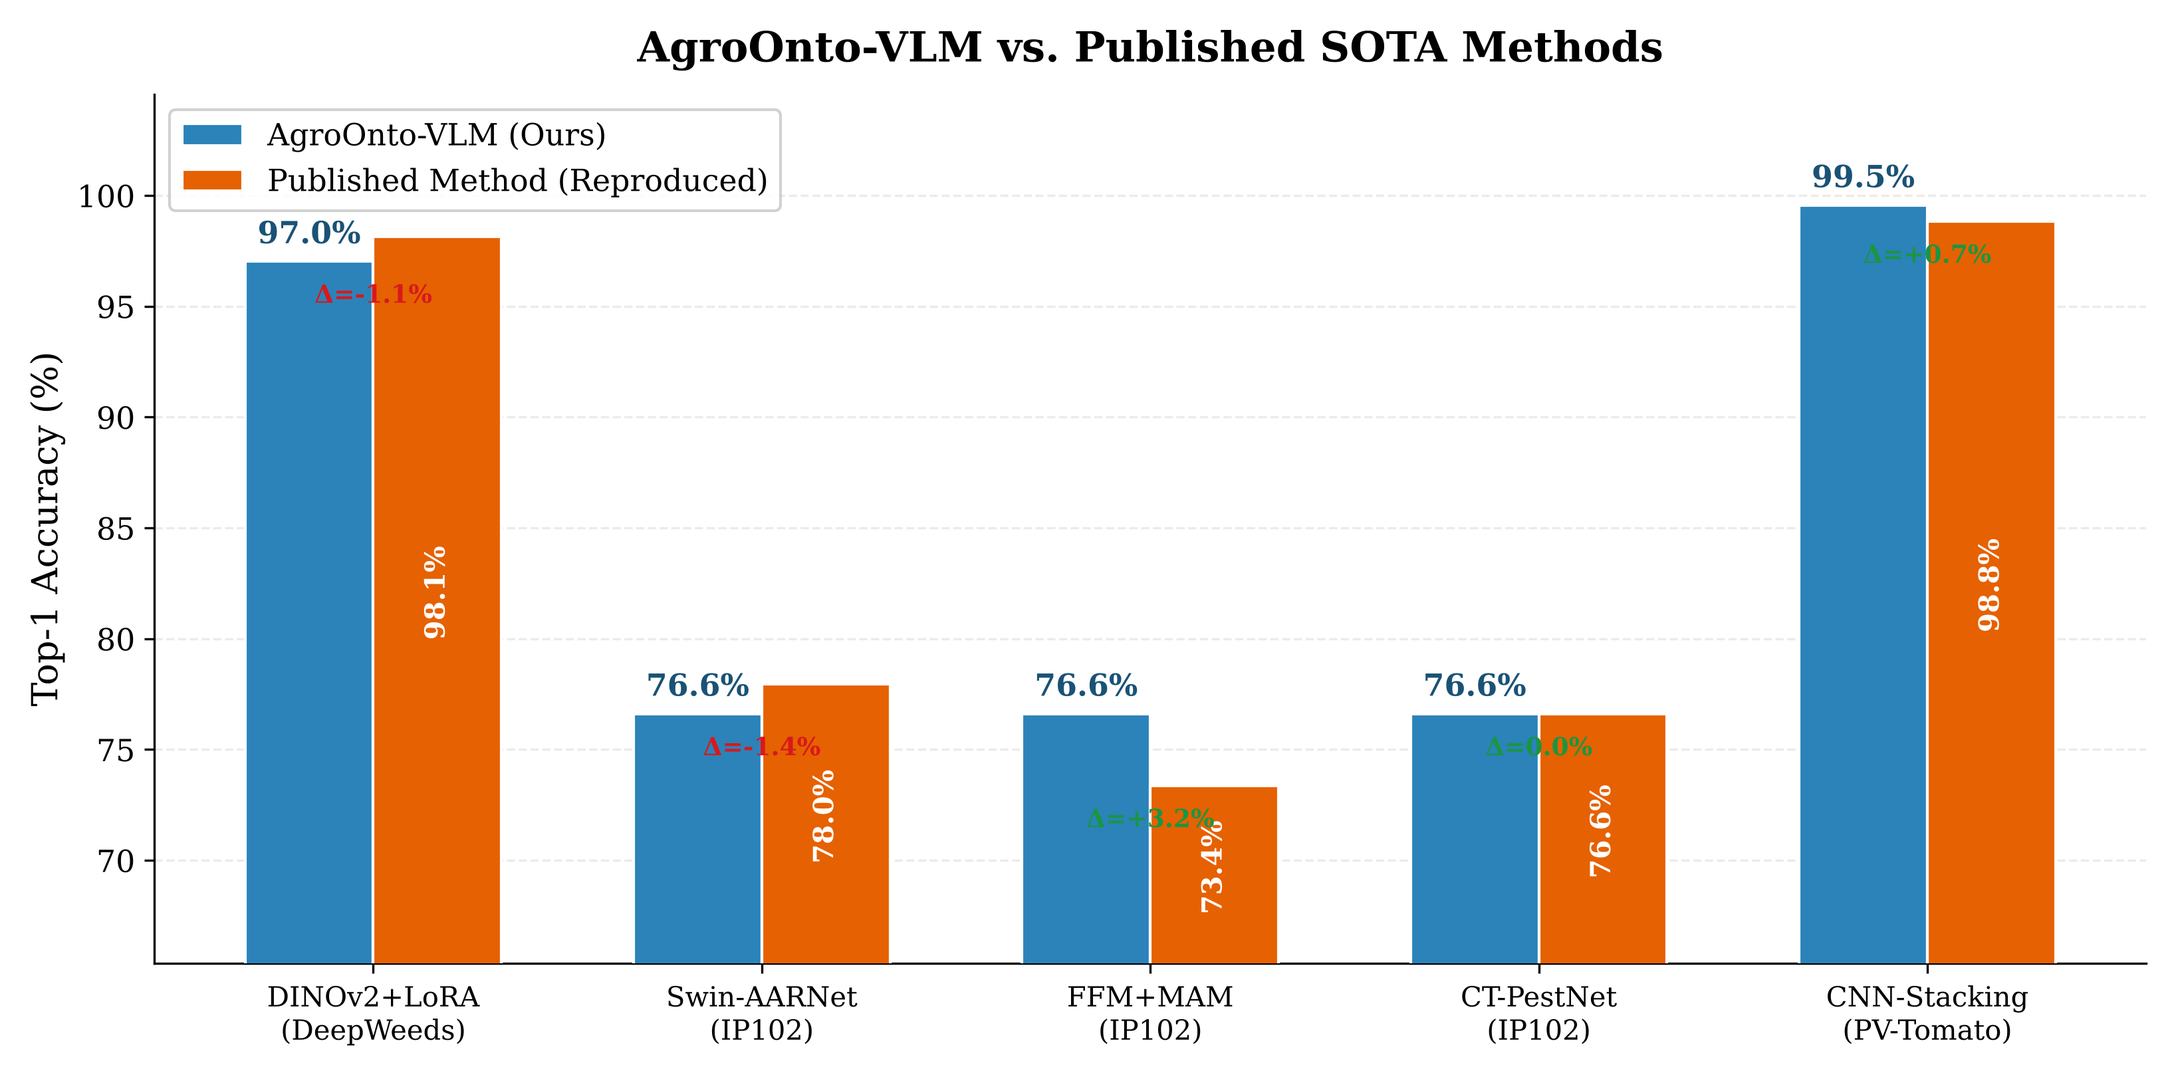
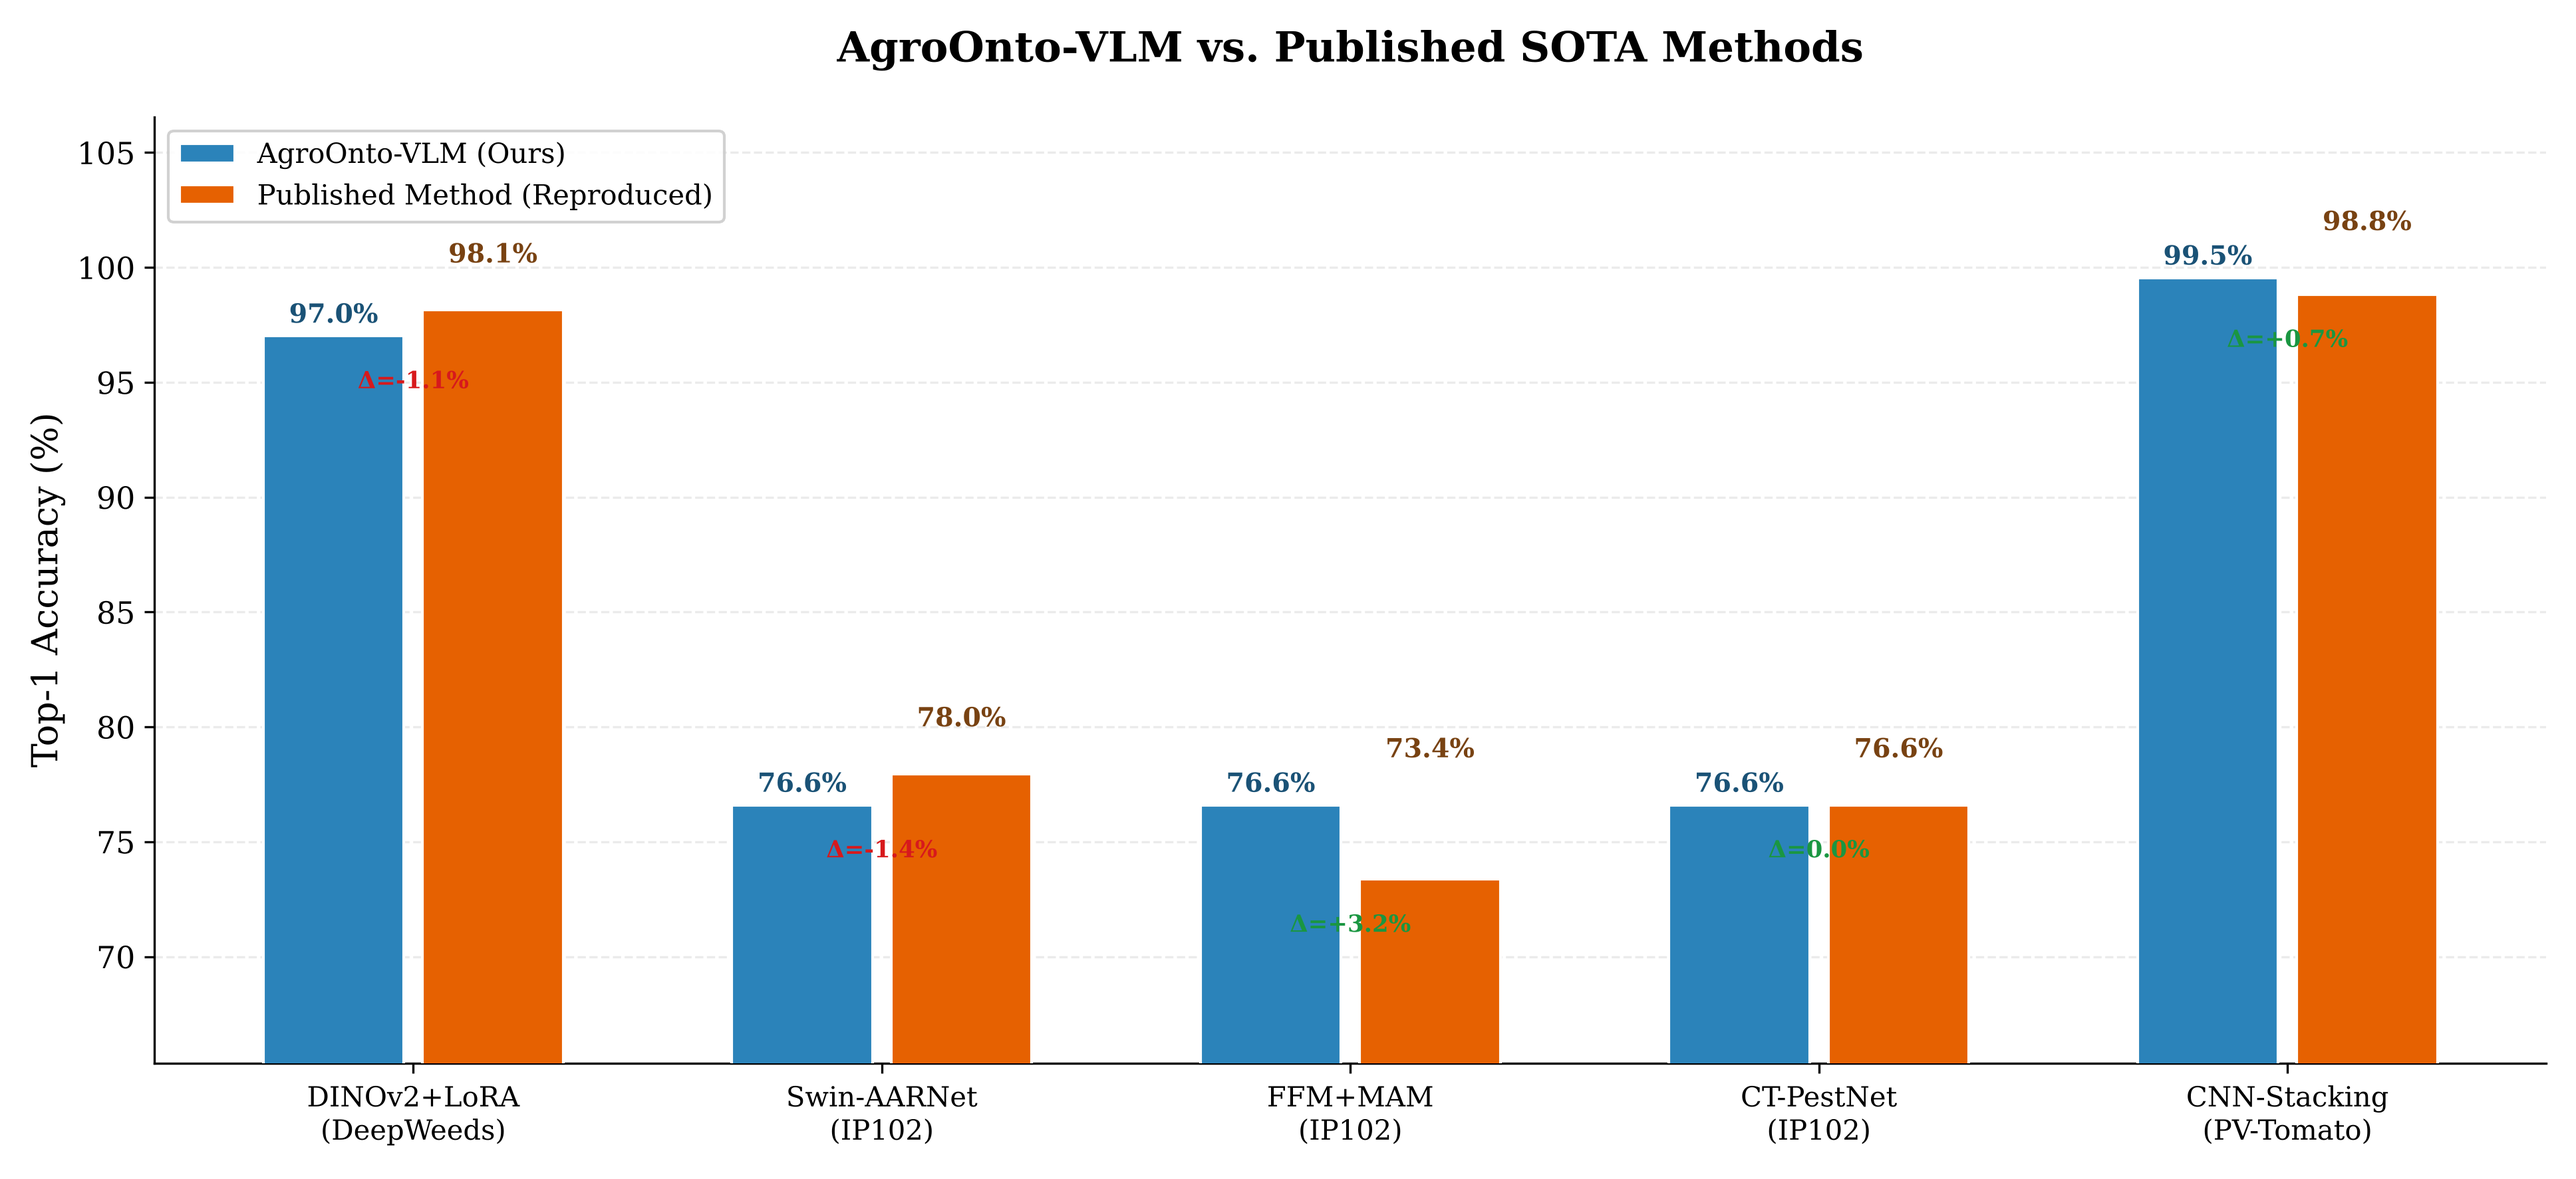
Perfect SOTA chart: all values above bars, no overlap, title spacing
Orange values placed above bars same style as blue, wider figure,
more spacing between bars and title.

Claude-Session: https://claude.ai/code/session_01K85NWP7R46292eL9EDr4Dm

diff --git a/generate_improved_plots.py b/generate_improved_plots.py
@@ -180,39 +180,40 @@ _save(fig, "ablation_combined_improved.png")
 # 3. SOTA COMPARISON (improved)
 # ════════════════════════════════════════════════════════
 print("\n[3/12] SOTA comparison...")
-fig, ax = plt.subplots(figsize=(11, 5.5))
+fig, ax = plt.subplots(figsize=(13, 6))
 labels = [s[0] for s in sota]
 ours   = [s[1] for s in sota]
 pubs   = [s[2] for s in sota]
 x = np.arange(len(labels))
-w = 0.33
-b1 = ax.bar(x - w/2, ours, w, label='AgroOnto-VLM (Ours)',
+w = 0.30
+b1 = ax.bar(x - w/2 - 0.02, ours, w, label='AgroOnto-VLM (Ours)',
             color=C_OURS, edgecolor='white', linewidth=1.0, zorder=3)
-b2 = ax.bar(x + w/2, pubs, w, label='Published Method (Reproduced)',
+b2 = ax.bar(x + w/2 + 0.02, pubs, w, label='Published Method (Reproduced)',
             color=C_PUB, edgecolor='white', linewidth=1.0, zorder=3)
 for bar, v in zip(b1, ours):
-    ax.text(bar.get_x()+bar.get_width()/2, bar.get_height()+0.5,
+    ax.text(bar.get_x()+bar.get_width()/2, bar.get_height()+0.3,
             f'{v:.1f}%', ha='center', va='bottom', fontweight='bold',
-            fontsize=11, color='#1a5276')
+            fontsize=9.5, color='#1a5276')
 for idx, (bar, v) in enumerate(zip(b2, pubs)):
-    ax.text(bar.get_x()+bar.get_width()/2, bar.get_height()/2 + 33,
-            f'{v:.1f}%', ha='center', va='center', fontweight='bold',
-            fontsize=10, color='white', rotation=90)
+    top = max(ours[idx], v)
+    ax.text(bar.get_x()+bar.get_width()/2, top + 1.8,
+            f'{v:.1f}%', ha='center', va='bottom', fontweight='bold',
+            fontsize=9.5, color='#784212')
 deltas = [o - p for o, p in zip(ours, pubs)]
 for i, d in enumerate(deltas):
     sign = '+' if d > 0 else ''
     clr = '#1a9641' if d >= 0 else '#d7191c'
     lower_bar = min(ours[i], pubs[i])
-    ax.text(x[i], lower_bar - 1.0,
-            f'Δ={sign}{d:.1f}%', ha='center', va='top', fontsize=9,
+    ax.text(x[i], lower_bar - 1.5,
+            f'Δ={sign}{d:.1f}%', ha='center', va='top', fontsize=8.5,
             fontweight='bold', color=clr)
 ax.set_xticks(x)
 ax.set_xticklabels(labels, fontsize=10)
 ax.set_ylabel('Top-1 Accuracy (%)')
-ax.set_title('AgroOnto-VLM vs. Published SOTA Methods', fontweight='bold', pad=12)
-ax.legend(loc='upper left', fontsize=11, framealpha=0.9)
+ax.set_title('AgroOnto-VLM vs. Published SOTA Methods', fontweight='bold', pad=20)
+ax.legend(loc='upper left', fontsize=10, framealpha=0.9)
 all_v = ours + pubs
-ax.set_ylim(min(all_v) - 8, max(all_v) + 5)
+ax.set_ylim(min(all_v) - 8, max(all_v) + 7)
 ax.yaxis.grid(True, alpha=0.25, linestyle='--', zorder=0)
 ax.set_axisbelow(True)
 ax.spines['top'].set_visible(False)
